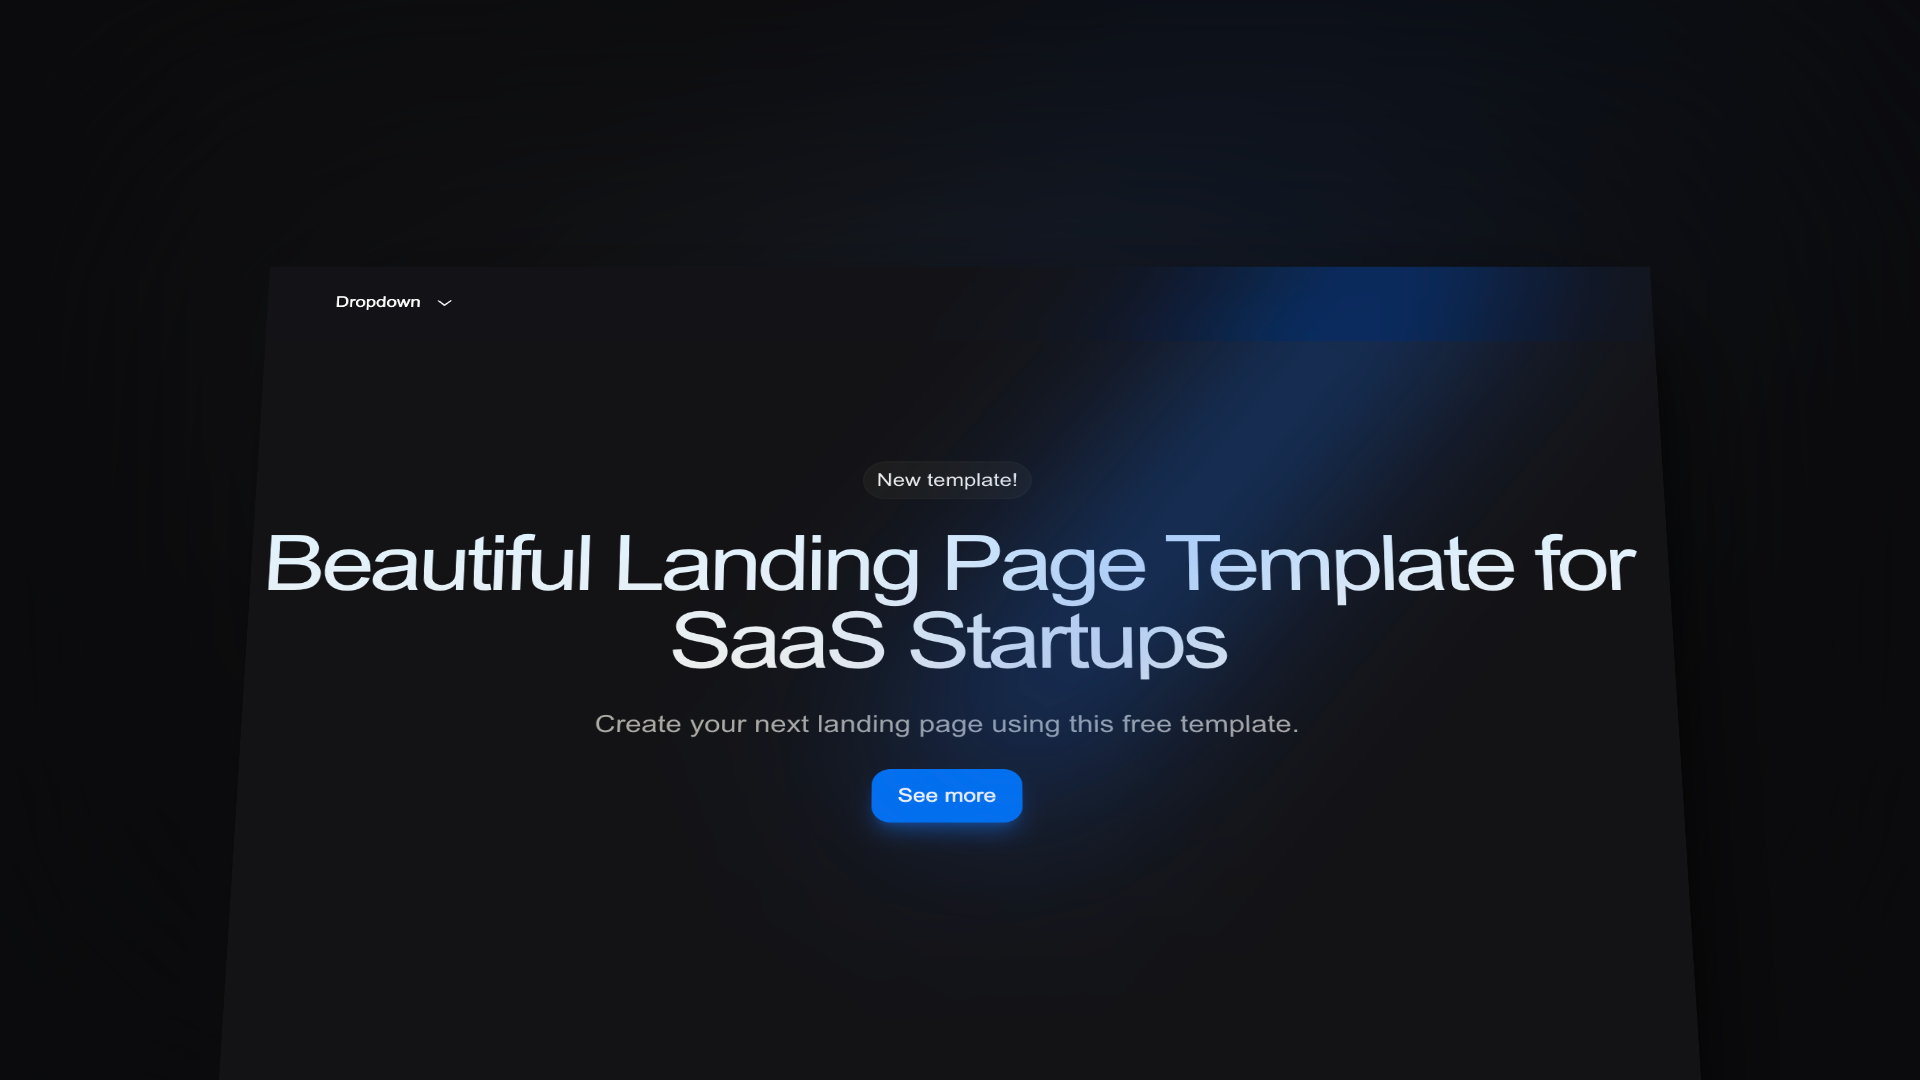
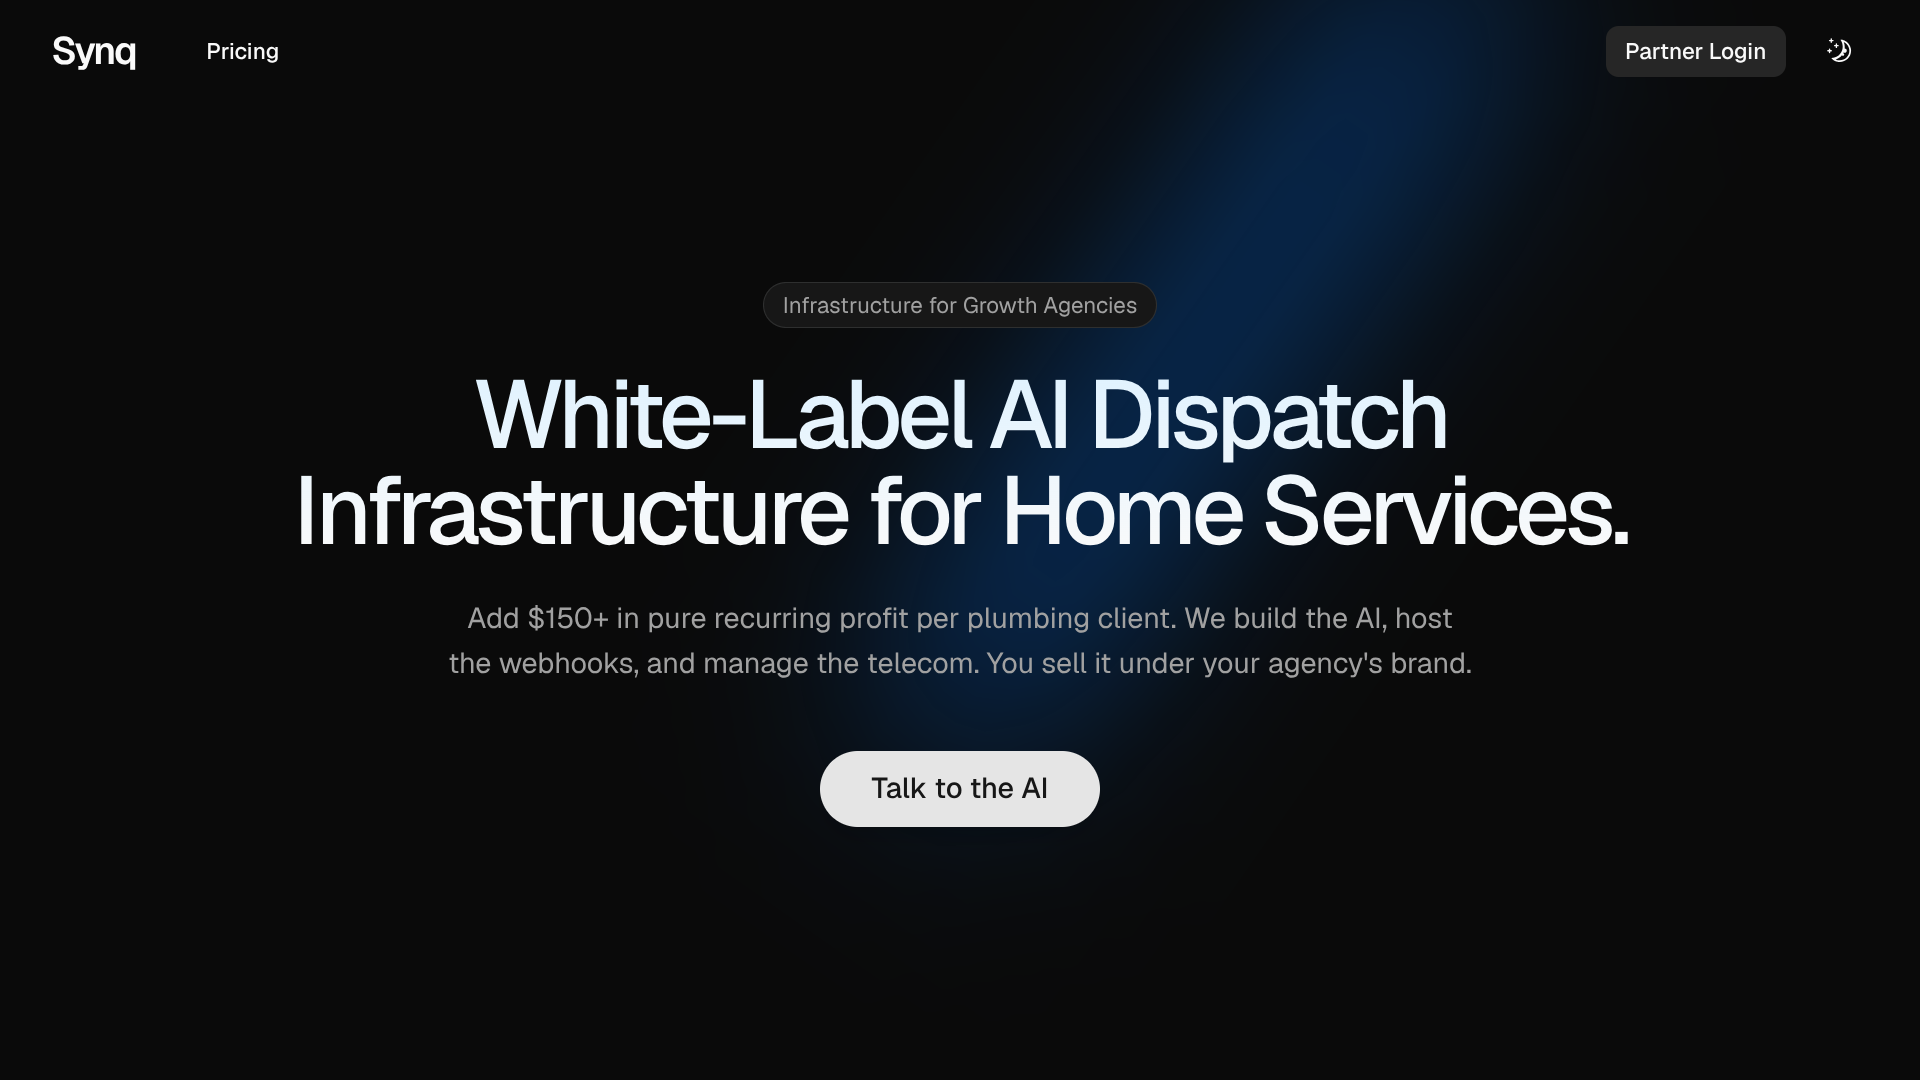
open graph

diff --git a/app/layout.tsx b/app/layout.tsx
@@ -9,8 +9,15 @@ const geist = Geist({
 });
 
 export const metadata: Metadata = {
-  title: "SaaS Landing Template",
-  description: "Landing Page template.",
+  title: "Synq — White-Label AI Dispatch Infrastructure",
+  description:
+    "Wholesale AI voice receptionists for home service marketing agencies. Flat $150/month per location.",
+  openGraph: {
+    title: "Synq — White-Label AI Dispatch Infrastructure",
+    description:
+      "Add $150+ in pure recurring profit per plumbing & HVAC client. We handle the AI, webhooks, and telecom.",
+    type: "website",
+  },
 };
 
 export default function RootLayout({
